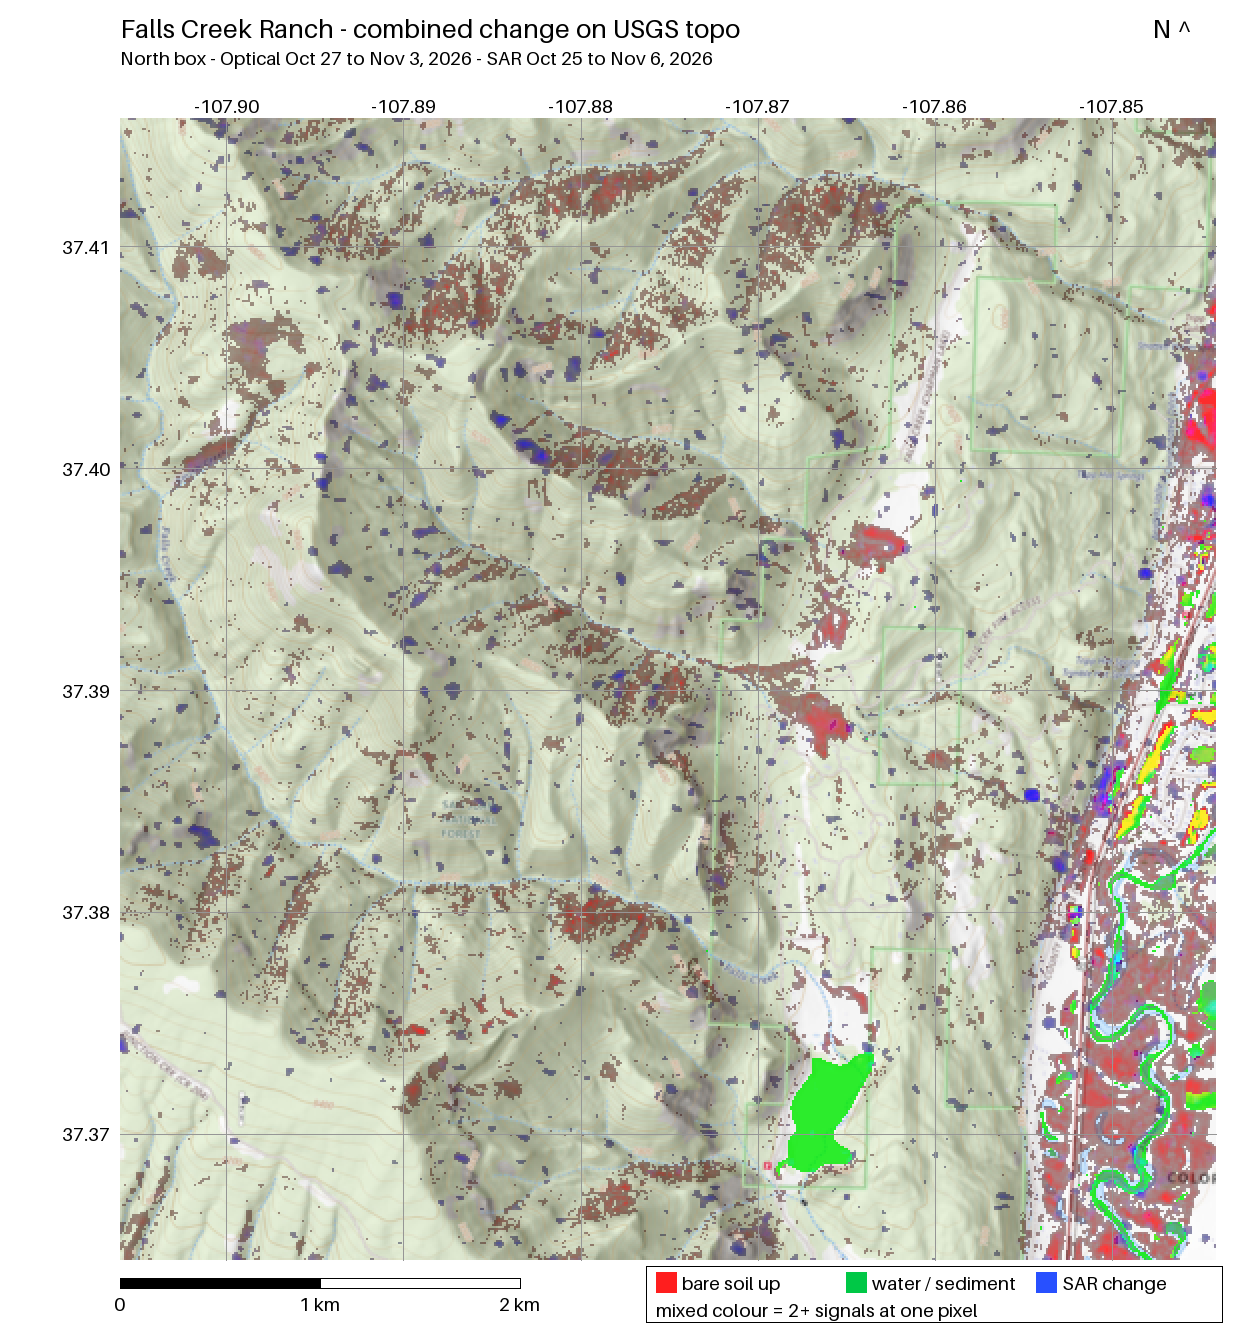
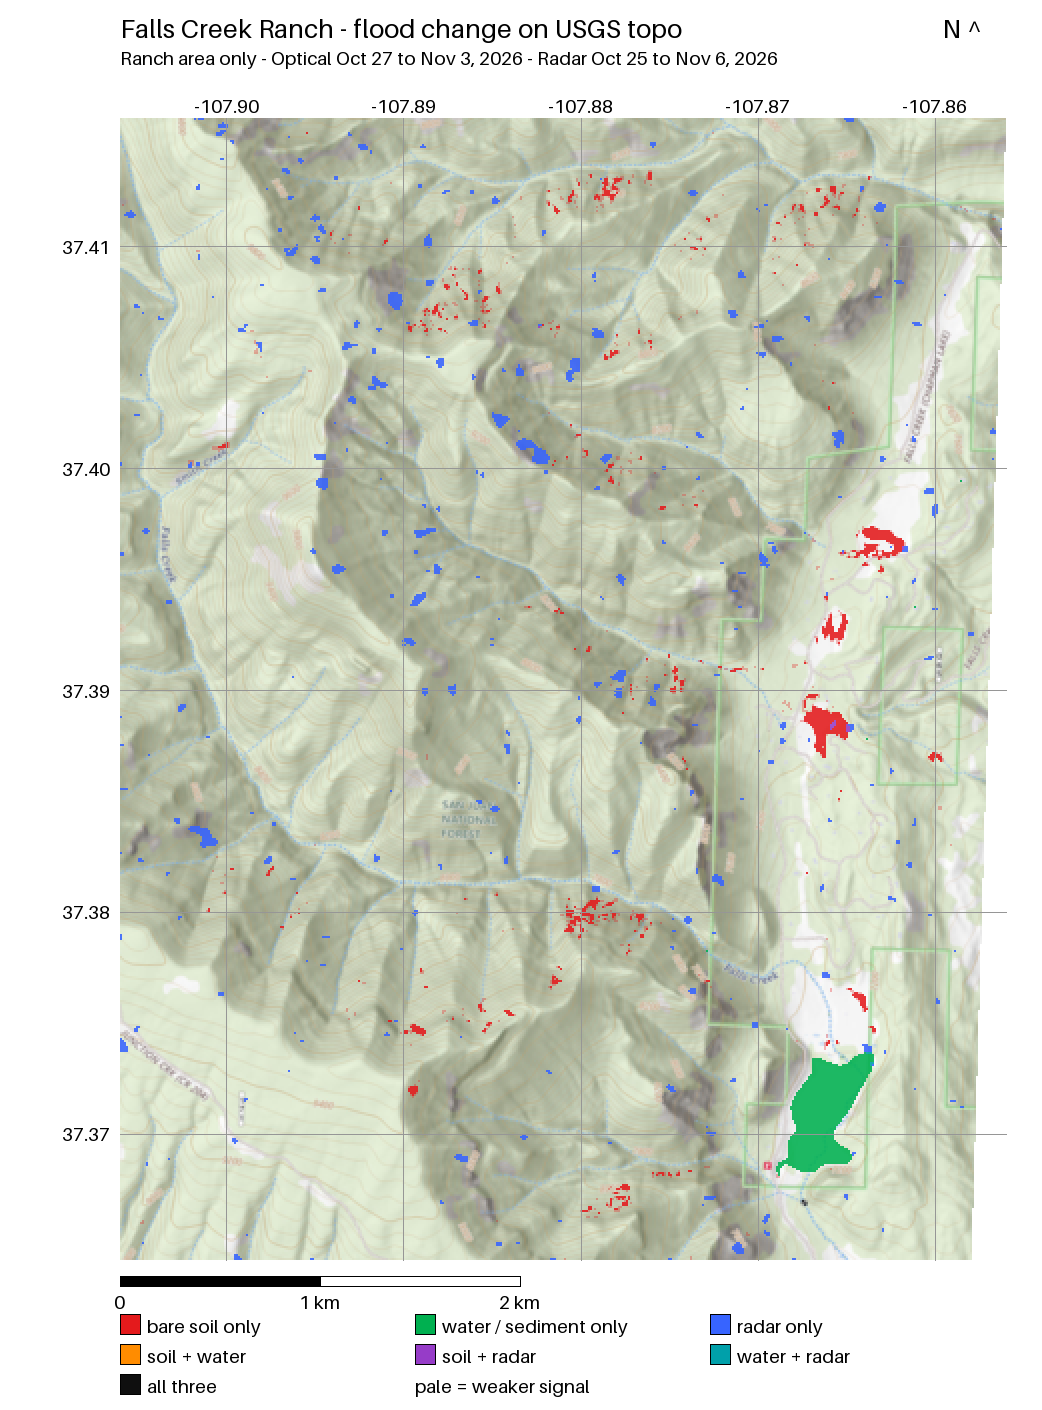
Flood page: categorical colours, crop Animas valley out of the maps
- Replace blended RGB mixing with one colour per evidence combination
  (soil/water/radar only, the three pairs, all three in black), each
  named in the map legend; pale marks weaker single signals
- Crop both maps at lon -107.857 so the Animas River valley is out of
  frame; page text updated to match (Animas finding removed)

diff --git a/src/routes/flood-2026/+page.md b/src/routes/flood-2026/+page.md
@@ -13,7 +13,7 @@ On November 1-2, 2026, flooding and debris flows blocked ranch roads, filled cul
 
 ![Satellite change map of the north end of Falls Creek Ranch on a USGS topographic base. Red marks newly bare soil, green marks water and sediment changes including Turner Lake, and blue marks radar-detected surface change.](/uploads/documents/flood-2026/topo-change-map-north.png)
 
-The north end of the ranch: Falls Creek valley, Turner Lake, and the Animas River floodplain at the right edge. Coordinates along the edges are latitude and longitude, about 1.1 km (0.7 miles) apart, and positions read from this map are good to roughly 50 metres.
+The north end of the ranch: Falls Creek valley and Turner Lake. The map stops at the ranch's east side; the Animas River valley is outside the frame. Coordinates along the edges are latitude and longitude, about 1.1 km (0.7 miles) apart, and positions read from this map are good to roughly 50 metres.
 
 ## How to read it
 
@@ -23,11 +23,10 @@ The background is a standard topographic map: brown lines are elevation contours
 - **Green: water changed.** Either new water where there was none (flooding), or existing water turned muddy. The solid green shape at Turner Lake is the second kind: the lake filled with sediment, which is what turns it green on this map.
 - **Blue: radar saw the surface change.** A second satellite using radar (October 25 to November 6) measures roughness and wetness rather than colour. Scattered blue speckle on steep hillsides is mostly a known radar effect on wet, steep ground. Blue alone is the weakest evidence on the map.
 
-Where colours overlap, trust the result more. One satellite can be fooled; two agreeing at the same spot is much harder to explain away. Mixed colours - yellow, magenta, white - mean two or three different measurements changed at the same place.
+Some spots show two or three kinds of change at once. Those get their own colours, listed in the legend: orange (soil and water), purple (soil and radar), teal (water and radar), and black where all three agree. They are the most trustworthy marks on the map - one satellite can be fooled, but two or three agreeing at the same spot is much harder to explain away. Pale colours mark a weaker version of the same signal.
 
 ## What the satellites found
 
-- **The largest change is off the ranch.** The Animas River floodplain east of the ranch (the bright mixed colours at the right edge of the map) flooded and took fresh sediment across about 250 acres.
 - **Turner Lake took a heavy sediment load.** The water's reflectivity rose sharply as muddy inflow arrived, and the lake surface reads as changed across its full area.
 - **Debris reached the valley floor at the mouth of Dyke Canyon,** covering about 9 acres where the canyon meets Falls Creek - the largest single deposit on the ranch.
 - **The north end of Falls Creek Main shows change** around the Oakcrest Drive area and the North Main culvert, matching where debris blocked the road.
@@ -43,7 +42,7 @@ So: no colour on a hillside does not mean no slide there. This analysis is relia
 
 ![Satellite change map of the full ranch and the Animas River floodplain, without the topographic base. Red marks newly bare soil, green marks water and sediment changes, and blue marks radar-detected surface change.](/uploads/documents/flood-2026/combined-change-overview.png)
 
-The full analysis area, from the south gate to north of the ranch boundary. The Animas floodplain dominates the east side; the ranch valley runs up the centre.
+The full ranch, from the south gate to north of the ranch boundary, in the same colour scheme. The valley floor and channel margins carry nearly all of the change; the hillsides carry almost none that a satellite can see.
 
 ## Method, briefly
 
